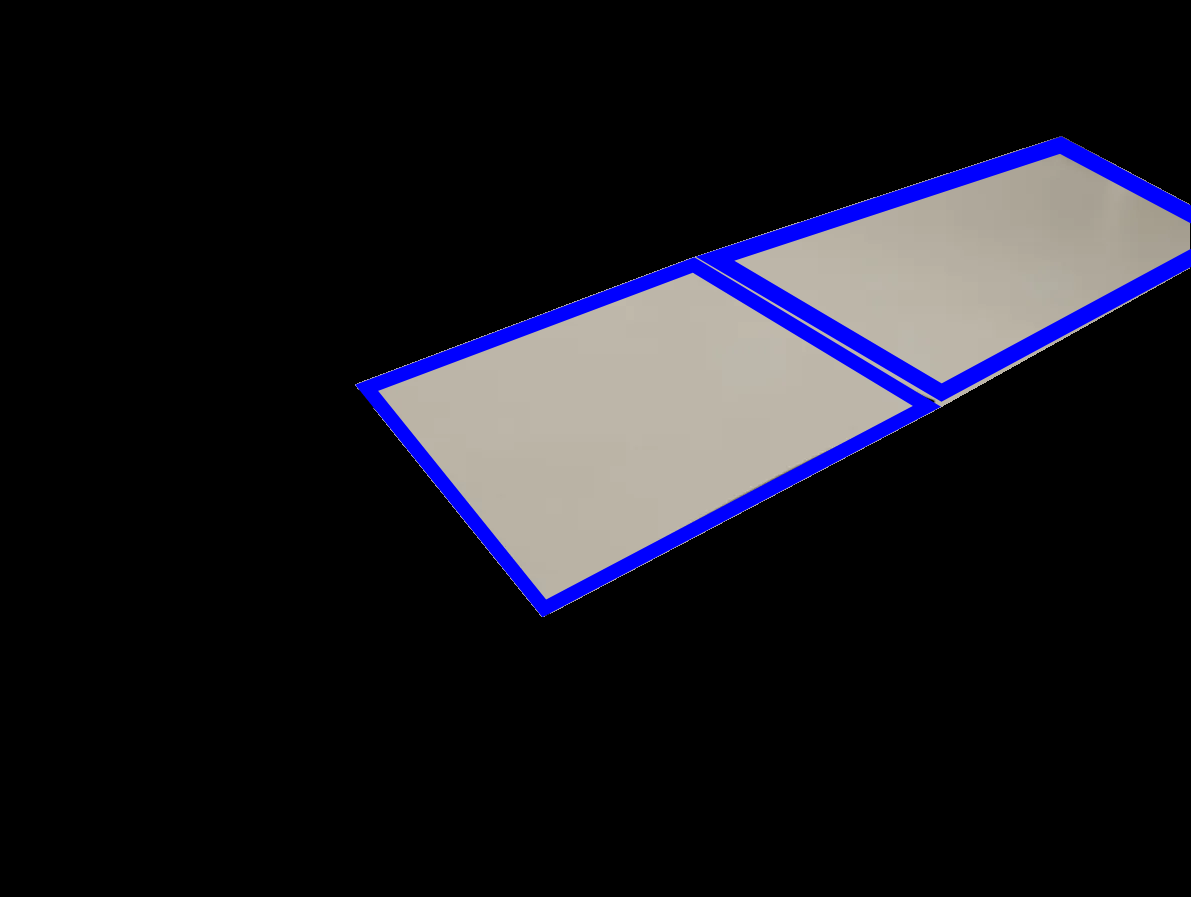
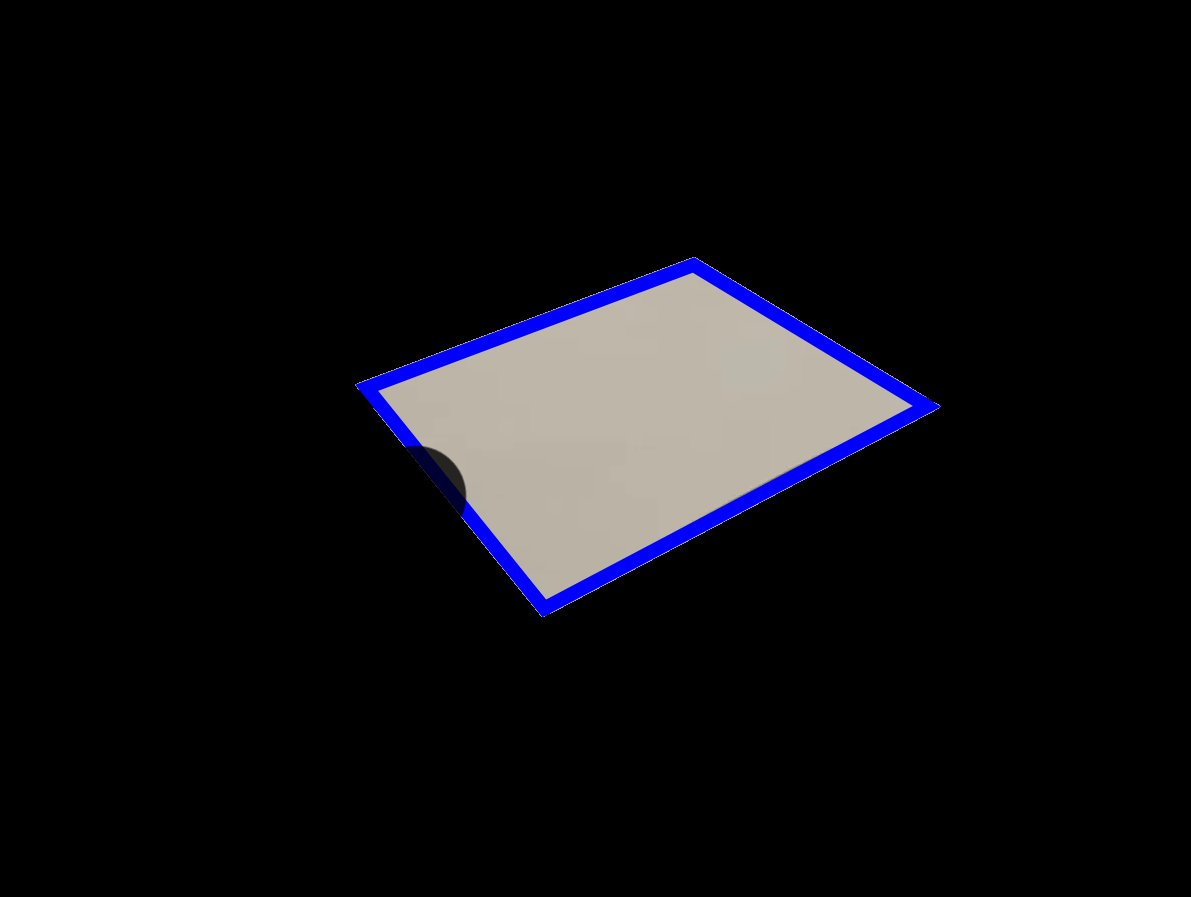
Cropper integrated and fixed border beyond edge.

Changed region(s): [[0.5903, 0.1561, 1.0, 0.4682], [0.3417, 0.4994, 0.4039, 0.5931]]

diff --git a/staindet.py b/staindet.py
@@ -1,8 +1,90 @@
+import cv2
 import numpy as np
 from PIL import Image, ImageFilter, ImageEnhance
 import matplotlib.pyplot as plt
 
-def _open_image(image_path:str):
+def detect_and_crop_color_border(image, color='blue'):
+    """
+    Detect and crop colored border with improved robustness.
+    
+    Args:
+        image (PIL.Image): Input image
+        color (str): Color of the border to detect
+    
+    Returns:
+        PIL.Image: Cropped image
+    """
+    # Convert PIL Image to numpy array
+    np_image = np.array(image)
+    
+    # Convert to BGR for OpenCV (PIL uses RGB)
+    cv_image = cv2.cvtColor(np_image, cv2.COLOR_RGB2BGR)
+    
+    # Convert to HSV color space
+    hsv = cv2.cvtColor(cv_image, cv2.COLOR_BGR2HSV)
+    
+    # Color ranges in HSV
+    color_ranges = {
+        "green": ([35, 50, 50], [85, 255, 255]),
+        "blue": ([100, 50, 50], [140, 255, 255]),
+        "yellow": ([20, 50, 50], [30, 255, 255])
+    }
+    
+    # Get color range
+    lower, upper = color_ranges.get(color, color_ranges['blue'])
+    
+    # Create mask for specified color
+    color_mask = cv2.inRange(hsv, np.array(lower), np.array(upper))
+    
+    # Find contours of colored border
+    contours, _ = cv2.findContours(color_mask, cv2.RETR_EXTERNAL, cv2.CHAIN_APPROX_SIMPLE)
+    
+    if not contours:
+        return image  # Return original image if no border found
+    
+    # Find the largest contour (presumably the border)
+    border_contour = max(contours, key=cv2.contourArea)
+    
+    # Get convex hull to smooth out irregularities
+    hull = cv2.convexHull(border_contour)
+    
+    # Create a mask for the entire image
+    mask = np.zeros(cv_image.shape[:2], dtype=np.uint8)
+    
+    # Fill the convex hull on the mask
+    cv2.fillPoly(mask, [hull], 255)
+    
+    # Bitwise AND to keep only the area inside the border
+    result = cv2.bitwise_and(cv_image, cv_image, mask=mask)
+    
+    # Convert back to RGB for PIL
+    result_rgb = cv2.cvtColor(result, cv2.COLOR_BGR2RGB)
+    
+    # Convert back to PIL Image
+    return Image.fromarray(result_rgb)
+
+def process_image(image, color='blue'):
+    """
+    Process an image by detecting and cropping to a colored border.
+    
+    Args:
+        image (PIL.Image): Input image
+        color (str, optional): Border color to detect. Defaults to 'blue'.
+    
+    Returns:
+        PIL.Image: Cropped image
+    """
+    try:
+        # Crop to colored border
+        cropped_image = detect_and_crop_color_border(image, color)
+        
+        return cropped_image
+    
+    except Exception as e:
+        print(f"Error processing image: {e}")
+        return image
+
+def _open_image(image_path:str, use_border : bool = False, color : str = "blue"):
     """Opens an image from disk and converts it into a PIL Image array.
 
     Args:
@@ -11,6 +93,8 @@ def _open_image(image_path:str):
         PIL Image: A float32 Numpy Image array
     """
     img = Image.open(image_path)
+    if use_border:
+        img = process_image(img)
     img_array = np.array(img).astype(np.uint8)
     return(img_array)
 
@@ -102,57 +186,6 @@ def chroma_key(foreground, background, key_color=(0, 0, 0), tolerance=30):
     
     return composited
 
-def detect_color_border(imagepath,color):
-
-    image = cv2.imread(imagepath)
-    # Convert to HSV color space for better color detection
-    hsv = cv2.cvtColor(image, cv2.COLOR_BGR2HSV)
-    color_ranges = {}
-    # Define range of green `color in HSV
-    color_ranges["lower_green"] = np.array([35, 50, 50])
-    color_ranges["upper_green"] = np.array([85, 255, 255])
-
-    # Define range of blue color in HSV
-    color_ranges["lower_blue"] = np.array([100, 50, 50])   # Hue: 100-140, Saturation: 50-255, Value: 50-255
-    color_ranges["upper_blue"] = np.array([140, 255, 255])
-
-    #Define range of yellow coloor in HSV
-    color_ranges["lower_yellow"] = np.array([20, 50, 50])  # Hue: 20-30, Saturation: 50-255, Value: 50-255
-    color_ranges["upper_yellow"] = np.array([30, 255, 255])
-
-    # Create a mask for green color
-    color_mask = cv2.inRange(hsv, color_ranges[f'lower_{color}'], color_ranges[f'upper_{color}'])
-
-    # Find contours of the green border
-    contours, _ = cv2.findContours(color_mask, cv2.RETR_EXTERNAL, cv2.CHAIN_APPROX_SIMPLE)
-
-    # Find the largest contour that is likely the border
-    border_contour = max(contours, key=cv2.contourArea)
-
-    # Approximate the contour to a polygon
-    epsilon = 0.02 * cv2.arcLength(border_contour, True)
-    approx = cv2.approxPolyDP(border_contour, epsilon, True)
-
-    return approx
-
-def crop_to_border(image, contour):
-    # Get the bounding rectangle of the contour
-    x, y, w, h = cv2.boundingRect(contour)
-
-    # Create a mask of the same size as the image
-    mask = np.zeros(image.shape[:2], dtype=np.uint8)
-
-    # Draw the contour on the mask
-    cv2.drawContours(mask, [contour], -1, 255, -1)
-
-    # Create a masked image
-    masked_image = cv2.bitwise_and(image, image, mask=mask)
-
-    # Crop the image
-    cropped = masked_image[y:y+h, x:x+w]
-
-    return cropped
-
 def image_display(arrimg : dict):
     """Given data arrays with the title of the image, create a window displaying the images with their titles in a grid.
 
@@ -175,8 +208,8 @@ def image_display(arrimg : dict):
 #Import original image
 
 
-imgarr = {"Original":_open_image("imagedata/workstain.jpg")}
-imgarr["Negative"]= makeneg(_open_image("imagedata/work.jpg"))
+imgarr = {"Original":_open_image("imagedata/bluestain.jpg")}
+imgarr["Negative"]= makeneg(_open_image("imagedata/blue.jpg"))
 imgarr["Fused"]= fuse_image(imgarr["Original"], imgarr["Negative"], 0.5)
 imgarr["FusedEdge"] = imgarr["Fused"].filter(ImageFilter.FIND_EDGES)
 image_display(imgarr)

diff --git a/imagefusion.py b/imagefusion.py
@@ -1,19 +1,26 @@
 import cv2
 import numpy as np
+from PIL import Image
 
 def detect_and_crop_color_border(image, color='blue'):
     """
     Detect and crop colored border with improved robustness.
     
     Args:
-        image (numpy.ndarray): Input image
+        image (PIL.Image): Input image
         color (str): Color of the border to detect
     
     Returns:
-        numpy.ndarray: Cropped image
+        PIL.Image: Cropped image
     """
+    # Convert PIL Image to numpy array
+    np_image = np.array(image)
+    
+    # Convert to BGR for OpenCV (PIL uses RGB)
+    cv_image = cv2.cvtColor(np_image, cv2.COLOR_RGB2BGR)
+    
     # Convert to HSV color space
-    hsv = cv2.cvtColor(image, cv2.COLOR_BGR2HSV)
+    hsv = cv2.cvtColor(cv_image, cv2.COLOR_BGR2HSV)
     
     # Color ranges in HSV
     color_ranges = {
@@ -41,42 +48,49 @@ def detect_and_crop_color_border(image, color='blue'):
     hull = cv2.convexHull(border_contour)
     
     # Create a mask for the entire image
-    mask = np.zeros(image.shape[:2], dtype=np.uint8)
+    mask = np.zeros(cv_image.shape[:2], dtype=np.uint8)
     
     # Fill the convex hull on the mask
     cv2.fillPoly(mask, [hull], 255)
     
     # Bitwise AND to keep only the area inside the border
-    result = cv2.bitwise_and(image, image, mask=mask)
+    result = cv2.bitwise_and(cv_image, cv_image, mask=mask)
     
-    return result
+    # Convert back to RGB for PIL
+    result_rgb = cv2.cvtColor(result, cv2.COLOR_BGR2RGB)
+    
+    # Convert back to PIL Image
+    return Image.fromarray(result_rgb)
 
-def process_image(input_path, output_path, color='blue'):
+def process_image(image, color='blue'):
     """
     Process an image by detecting and cropping to a colored border.
     
     Args:
-        input_path (str): Path to input image
-        output_path (str): Path to save processed image
+        image (PIL.Image): Input image
         color (str, optional): Border color to detect. Defaults to 'blue'.
+    
+    Returns:
+        PIL.Image: Cropped image
     """
     try:
-        # Read the image
-        image = cv2.imread(input_path)
-        
-        if image is None:
-            raise ValueError(f"Could not read image from {input_path}")
-        
         # Crop to colored border
         cropped_image = detect_and_crop_color_border(image, color)
         
-        # Save the cropped image
-        cv2.imwrite(output_path, cropped_image)
-        print(f"Image cropped successfully and saved to {output_path}")
+        return cropped_image
     
     except Exception as e:
         print(f"Error processing image: {e}")
+        return image
 
 # Example usage
 if __name__ == "__main__":
-    process_image('bluemult.png', 'cropped_blueblock.png', color='blue')
+    # Load image using PIL
+    input_image = Image.open('blueblock.png')
+    
+    # Process the image
+    processed_image = process_image(input_image, color='blue')
+    
+    # Save the processed image
+    processed_image.save('cropped_blueblock.png')
+    print("Image processed successfully!")
